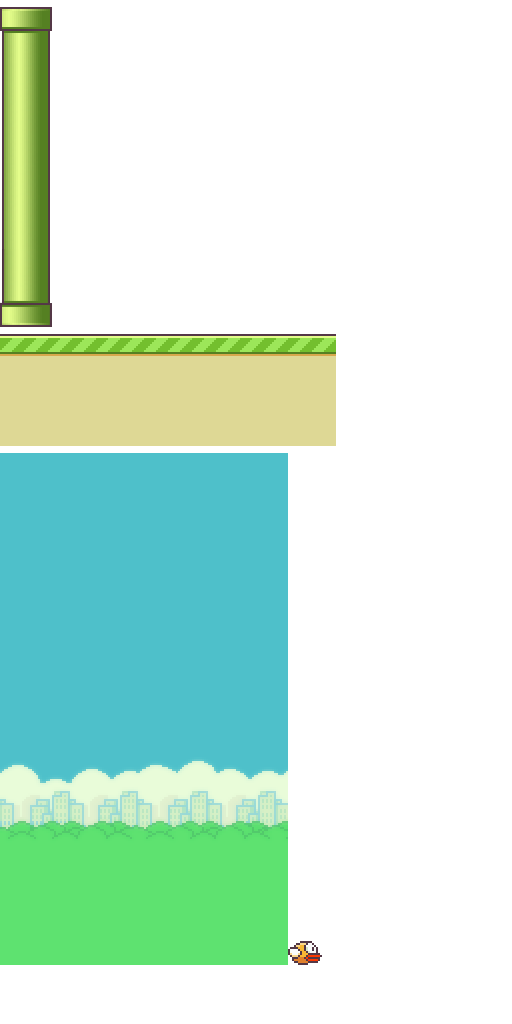
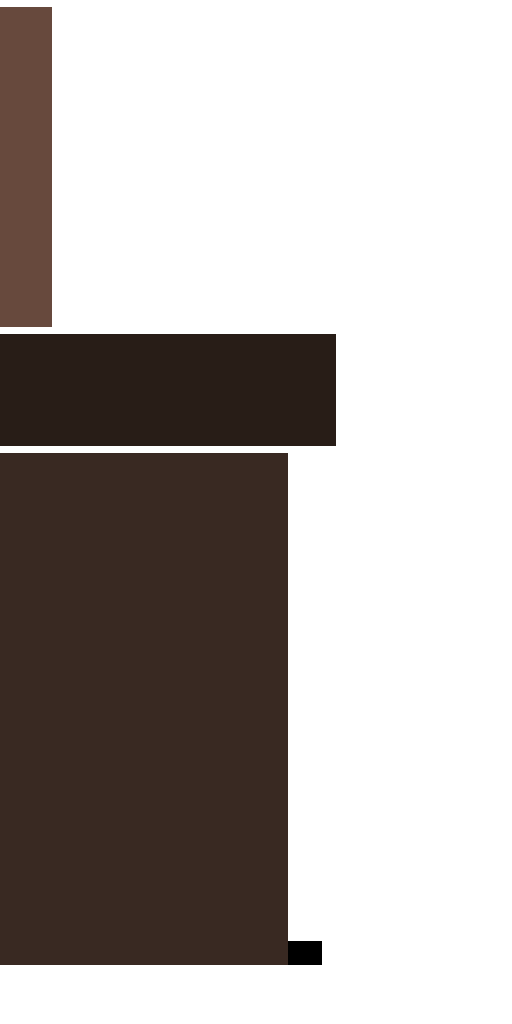
- Continued work on GeneRockets. - Changed to solid coloured textures for FlappyBat until custom ones can be made.

diff --git a/core/src/com/kehxstudios/atlas/screens/GeneRocketsScreen.java b/core/src/com/kehxstudios/atlas/screens/GeneRocketsScreen.java
@@ -1,6 +1,9 @@
 package com.kehxstudios.atlas.screens;
 
+import com.badlogic.gdx.math.Vector2;
+import com.kehxstudios.atlas.components.GeneRocketComponent;
 import com.kehxstudios.atlas.entities.Entity;
+import com.kehxstudios.atlas.managers.EntityManager;
 import com.kehxstudios.atlas.managers.PhysicsManager;
 import com.kehxstudios.atlas.data.ComponentData;
 import com.kehxstudios.atlas.components.GraphicsComponent;
@@ -11,32 +14,61 @@ import com.kehxstudios.atlas.type.ScreenType;
 import com.kehxstudios.atlas.type.TextureType;
 
 import java.util.ArrayList;
+import java.util.Random;
 
 public class GeneRocketsScreen extends AScreen {
 
     private int generationNumber;
     private float timePerGeneration;
-    private int rockPopulationSize;
+    private float currentGenerationTime;
+    private int rocketPopulationSize;
     
     private ArrayList<Entity> rocketPopulation;
+    private ArrayList<PhysicsComponent> physicsComponents;
+    private ArrayList<GeneRocketComponent> geneRocketComponents;
     private Entity targetEntity;
+
+    private int numOfGenes;
+    private int activeGeneNumber;
+    private ArrayList<GeneRocketComponent> geneMatingPool;
+    private ArrayList<Integer> rocketMatingPool;
+
+    private Random random = new Random();
 
     public GeneRocketsScreen() {
         super(ScreenType.GENE_ROCKETS);
 
-        generationNumber = 0;
         timePerGeneration = 400f;
-        rockPopulationSize = 50;
+        rocketPopulationSize = 50;
+        numOfGenes = (int)Math.ceil(timePerGeneration);
+
+        generationNumber = 0;
+        currentGenerationTime = 0f;
+        activeGeneNumber = 0;
+    }
+
+    public void reset() {
+        super.reset();
+
+        generationNumber = 0;
+        currentGenerationTime = 0f;
+        activeGeneNumber = 0;
+        destroyGeneRocketComponents();
+        generateRockets();
     }
 
     public void finalizeSetup() {
         super.finalizeSetup();
+
+        rocketMatingPool = new ArrayList<Integer>();
+
         ComponentData targetGraphicsData = Templates.graphicsComponentData(0,0,1, TextureType.GENE_ROCKETS_TARGET);
-        ComponentData targetPhysicsData = Templates.physicsComponentData(0, 0, 0, 0);
-        
+        ComponentData targetCollisionData = Templates.collisionComponentData(TextureType.GENE_ROCKETS_TARGET.getWidth(),
+                TextureType.GENE_ROCKETS_TARGET.getHeight(), true, false, false, Templates.scoreActionData(10));
+
         targetEntity = Factory.createEntity(Templates.createEntityData(width/2, height/5*4));
         Factory.createComponent(targetEntity, targetGraphicsData);
-        PhysicsComponent targetPhysics = (PhysicsComponent)Factory.createComponent(targetEntity, targetPhysicsData);
+        Factory.createComponent(targetEntity, targetCollisionData);
         
         generateRockets();
     }
@@ -44,30 +76,111 @@ public class GeneRocketsScreen extends AScreen {
     private void generateRockets() {
         ComponentData rocketGraphicsData = Templates.graphicsComponentData(0,0,2, TextureType.GENE_ROCKETS_ROCKET);
         ComponentData rocketPhysicsData = Templates.physicsComponentData(10, 10, 10, 10);
+        ComponentData rocketCollisionData = Templates.collisionComponentData(TextureType.GENE_ROCKETS_ROCKET.getWidth(),
+                TextureType.GENE_ROCKETS_ROCKET.getHeight(), false, false, false, Templates.scoreActionData(10));
+        ComponentData rocketGeneData = Templates.geneRocketComponentData();
 
-        rocketPopulation = new ArrayList<Entity>();
-        for (int i = 0; i < rockPopulationSize; i++) {
-            Entity rocket = Factory.createEntity(Templates.createEntityData(width/2, height/5));
-            Factory.createComponent(rocket, rocketGraphicsData);
-            Factory.createComponent(rocket, rocketPhysicsData);
-            rocketPopulation.add(rocket);
+        rocketPopulation = new ArrayList<Entity>(rocketPopulationSize);
+        physicsComponents = new ArrayList<PhysicsComponent>(rocketPopulationSize);
+        for (int i = 0; i < rocketPopulationSize; i++) {
+            Entity rocketEntity = Factory.createEntity(Templates.createEntityData(width/2, height/5));
+            Factory.createComponent(rocketEntity, rocketGraphicsData);
+            physicsComponents.add(i, (PhysicsComponent)Factory.createComponent(rocketEntity, rocketPhysicsData));
+            Factory.createComponent(rocketEntity, rocketCollisionData);
+            GeneRocketComponent rocketGenes = (GeneRocketComponent)Factory.createComponent(rocketEntity, rocketGeneData);
+            rocketGenes.setGenes(randomGenes());
+            geneRocketComponents.add(i, rocketGenes);
+            rocketPopulation.add(i, rocketEntity);
         }
     }
+
+    private ArrayList<Vector2> randomGenes() {
+        ArrayList<Vector2> genes = new ArrayList<Vector2>(numOfGenes);
+
+        for (int i = 0; i < numOfGenes; i++) {
+            genes.set(i, new Vector2(random.nextFloat()*6-3, random.nextFloat()*6-3));
+        }
+
+        return genes;
+    }
+
+    private void destroyGeneRocketComponents() {
+        for (GeneRocketComponent geneRocketComponent : geneRocketComponents) {
+            EntityManager.getInstance().markComponentForRemoval(geneRocketComponent);
+        }
+        EntityManager.getInstance().tick(0);
+        geneRocketComponents = null;
+    }
+
+    private void populateMatingPool() {
+        for (int i = 0; i < geneRocketComponents.size(); i++) {
+            int matingScore = (int)(geneRocketComponents.get(i).getFitness() / 100);
+            for (int j = 0; j < matingScore; j++) {
+                rocketMatingPool.add(i);
+            }
+        }
+        geneMatingPool = new ArrayList<GeneRocketComponent>(geneRocketComponents);
+    }
+
+    private void populateNewRockets() {
+        geneRocketComponents = new ArrayList<GeneRocketComponent>(rocketPopulationSize);
+
+        ComponentData rocketGeneData = Templates.geneRocketComponentData();
+
+        for (int i = 0; i < rocketPopulationSize; i++) {
+            int parentA = rocketMatingPool.get(random.nextInt(rocketMatingPool.size()));
+            int parentB = rocketMatingPool.get(random.nextInt(rocketMatingPool.size()));
+            while (parentA == parentB) {
+                parentB = rocketMatingPool.get(random.nextInt(rocketMatingPool.size()));
+            }
+
+            ArrayList<Vector2> genes = new ArrayList<Vector2>(numOfGenes);
+            for (int j = 0; j < numOfGenes; j++) {
+                if (random.nextBoolean()) {
+                    genes.set(j, geneMatingPool.get(parentA).getGene(j));
+                } else {
+                    genes.set(j, geneMatingPool.get(parentB).getGene(j));
+                }
+            }
+            GeneRocketComponent geneRocket = (GeneRocketComponent)Factory.createComponent(rocketPopulation.get(i), rocketGeneData);
+            geneRocket.setGenes(genes);
+            geneRocketComponents.set(i, geneRocket);
+        }
+
+
+    }
     
-    private void newGeneration() {
+    private void nextGeneration() {
         for (Entity rocket : rocketPopulation) {
             rocket.setPosition(width/2, height/5);   
         }
+
+        populateMatingPool();
+        destroyGeneRocketComponents();
+        populateNewRockets();
+
         generationNumber++;
-        screenTime = 0f;
+        currentGenerationTime = 0f;
+        activeGeneNumber = 0;
     }
 
     @Override
     public void render(float delta) {
         // increase screenTime in super method
         super.render(delta);
-        if (screenTime >= timePerGeneration) {
-            newGeneration();
+
+        timePerGeneration += delta;
+
+        if (currentGenerationTime >= timePerGeneration) {
+            nextGeneration();
+        }
+
+        if (Math.floor(timePerGeneration) > activeGeneNumber) {
+            activeGeneNumber++;
+            for (int i = 0; i < rocketPopulationSize; i++) {
+                physicsComponents.get(i).setVelocity(geneRocketComponents.get(i).getGene(activeGeneNumber));
+            }
+
         }
     }
     

diff --git a/core/src/com/kehxstudios/atlas/tools/Factory.java b/core/src/com/kehxstudios/atlas/tools/Factory.java
@@ -14,6 +14,7 @@ import com.kehxstudios.atlas.actions.FollowAction;
 import com.kehxstudios.atlas.actions.ResetScreenAction;
 import com.kehxstudios.atlas.components.CameraComponent;
 import com.kehxstudios.atlas.components.CollisionComponent;
+import com.kehxstudios.atlas.components.GeneRocketComponent;
 import com.kehxstudios.atlas.components.MusicComponent;
 import com.kehxstudios.atlas.components.SoundComponent;
 import com.kehxstudios.atlas.data.ActionData;
@@ -137,7 +138,11 @@ public class Factory {
                         Color.BLACK, 0, Align.left, true);
                 GraphicsManager.getInstance().add(floatingText);
                 return floatingText;
-            } else if (componentType == ComponentType.GRAPHICS) {
+            } else if (componentType == ComponentType.GENE_ROCKET) {
+                GeneRocketComponent geneRocket = (GeneRocketComponent)component;
+                geneRocket.setFitness(0f);
+                return geneRocket;
+            }else if (componentType == ComponentType.GRAPHICS) {
                 GraphicsComponent graphics = (GraphicsComponent)component;
                 graphics.setWidth(componentData.getFloat("width", 0));
                 graphics.setHeight(componentData.getFloat("height", 0));

diff --git a/core/src/com/kehxstudios/atlas/components/GeneRocketComponent.java b/core/src/com/kehxstudios/atlas/components/GeneRocketComponent.java
@@ -1,5 +1,6 @@
 package com.kehxstudios.atlas.components;
 
+import com.badlogic.gdx.math.Vector;
 import com.badlogic.gdx.math.Vector2;
 
 import java.util.ArrayList;
@@ -11,11 +12,35 @@ import java.util.ArrayList;
 public class GeneRocketComponent extends Component {
 
     private ArrayList<Vector2> genes;
+    private float fitness;
 
     public GeneRocketComponent(int numOfGenes) {
         super();
-
+        createGenes(numOfGenes);
     }
 
+    public void createGenes(int numOfGenes) {
+        genes = new ArrayList<Vector2>(numOfGenes);
+    }
 
+    public void setGenes(ArrayList<Vector2> genes) {
+        this.genes = genes;
+    }
+
+    public Vector2 getGene(int location) {
+        if (location < 0)
+            location = 0;
+        if (location > genes.size())
+            location = genes.size();
+        return genes.get(location);
+    }
+
+    public void setGene(int location, Vector2 gene) {
+        if (location < 0 || location > genes.size())
+            return;
+        genes.set(location, gene);
+    }
+
+    public void setFitness(float value) { fitness = value; }
+    public float getFitness() { return fitness; }
 }

diff --git a/core/src/com/kehxstudios/atlas/type/ComponentType.java b/core/src/com/kehxstudios/atlas/type/ComponentType.java
@@ -6,6 +6,7 @@ import com.kehxstudios.atlas.components.ClickableComponent;
 import com.kehxstudios.atlas.components.Component;
 import com.kehxstudios.atlas.components.CollisionComponent;
 import com.kehxstudios.atlas.components.FloatingTextComponent;
+import com.kehxstudios.atlas.components.GeneRocketComponent;
 import com.kehxstudios.atlas.components.GraphicsComponent;
 import com.kehxstudios.atlas.components.InViewComponent;
 import com.kehxstudios.atlas.components.MusicComponent;
@@ -26,6 +27,7 @@ public enum ComponentType {
     CLICKABLE("Clickable", ClickableComponent.class),
     COLLISION("Collision", CollisionComponent.class),
     FLOATING_TEXT("Floating_Text", FloatingTextComponent.class),
+    GENE_ROCKET("Gene Rocket", GeneRocketComponent.class),
     GRAPHICS("Graphics", GraphicsComponent.class),
     IN_VIEW("In_View", InViewComponent.class),
     MUSIC("Music", MusicComponent.class),

diff --git a/core/src/com/kehxstudios/atlas/screens/MainMenuScreen.java b/core/src/com/kehxstudios/atlas/screens/MainMenuScreen.java
@@ -45,7 +45,7 @@ public class MainMenuScreen extends AScreen {
         Factory.createComponent(geneRocketsEntity, borderGraphics);
         Factory.createComponent(geneRocketsEntity, Templates.floatingTextComponentData("", "Gene Rockets", 4));
         Factory.createComponent(geneRocketsEntity, Templates.clickableComponentData(TextureType.MAIN_MENU_BORDER.getWidth(),
-                TextureType.MAIN_MENU_BORDER.getHeight(), true, Templates.launchScreenActionData(ScreenType.INTRO)));
+                TextureType.MAIN_MENU_BORDER.getHeight(), true, Templates.launchScreenActionData(ScreenType.GENE_ROCKETS)));
         
         Entity highScoreResetEntity = Factory.createEntity(Templates.createEntityData(width/2, height/5));
         Factory.createComponent(highScoreResetEntity, borderGraphics);

diff --git a/core/src/com/kehxstudios/atlas/tools/Templates.java b/core/src/com/kehxstudios/atlas/tools/Templates.java
@@ -1,5 +1,6 @@
 package com.kehxstudios.atlas.tools;
 
+import com.badlogic.gdx.math.Vector2;
 import com.kehxstudios.atlas.data.ActionData;
 import com.kehxstudios.atlas.entities.Entity;
 import com.kehxstudios.atlas.type.ActionType;
@@ -148,6 +149,11 @@ public class Templates {
         data.putString("label", label);
         data.putString("text", text);
         data.putFloat("scale", scale);
+        return data;
+    }
+
+    public static ComponentData geneRocketComponentData() {
+        ComponentData data = componentData();
         return data;
     }
     

diff --git a/core/src/com/kehxstudios/atlas/components/PhysicsComponent.java b/core/src/com/kehxstudios/atlas/components/PhysicsComponent.java
@@ -37,6 +37,7 @@ public class PhysicsComponent extends Component {
 
     public Vector2 getVelocity() { return velocity; }
     public void setVelocity(float x, float y) { velocity.set(x,y); }
+    public void setVelocity(Vector2 velocity) { this.velocity = velocity; }
     public void addVelocity(float x, float y) { velocity.add(x,y); }
     public void setXVelocity(float x) { velocity.x = x; }
     public void setYVelocity(float y) { velocity.y = y; }
